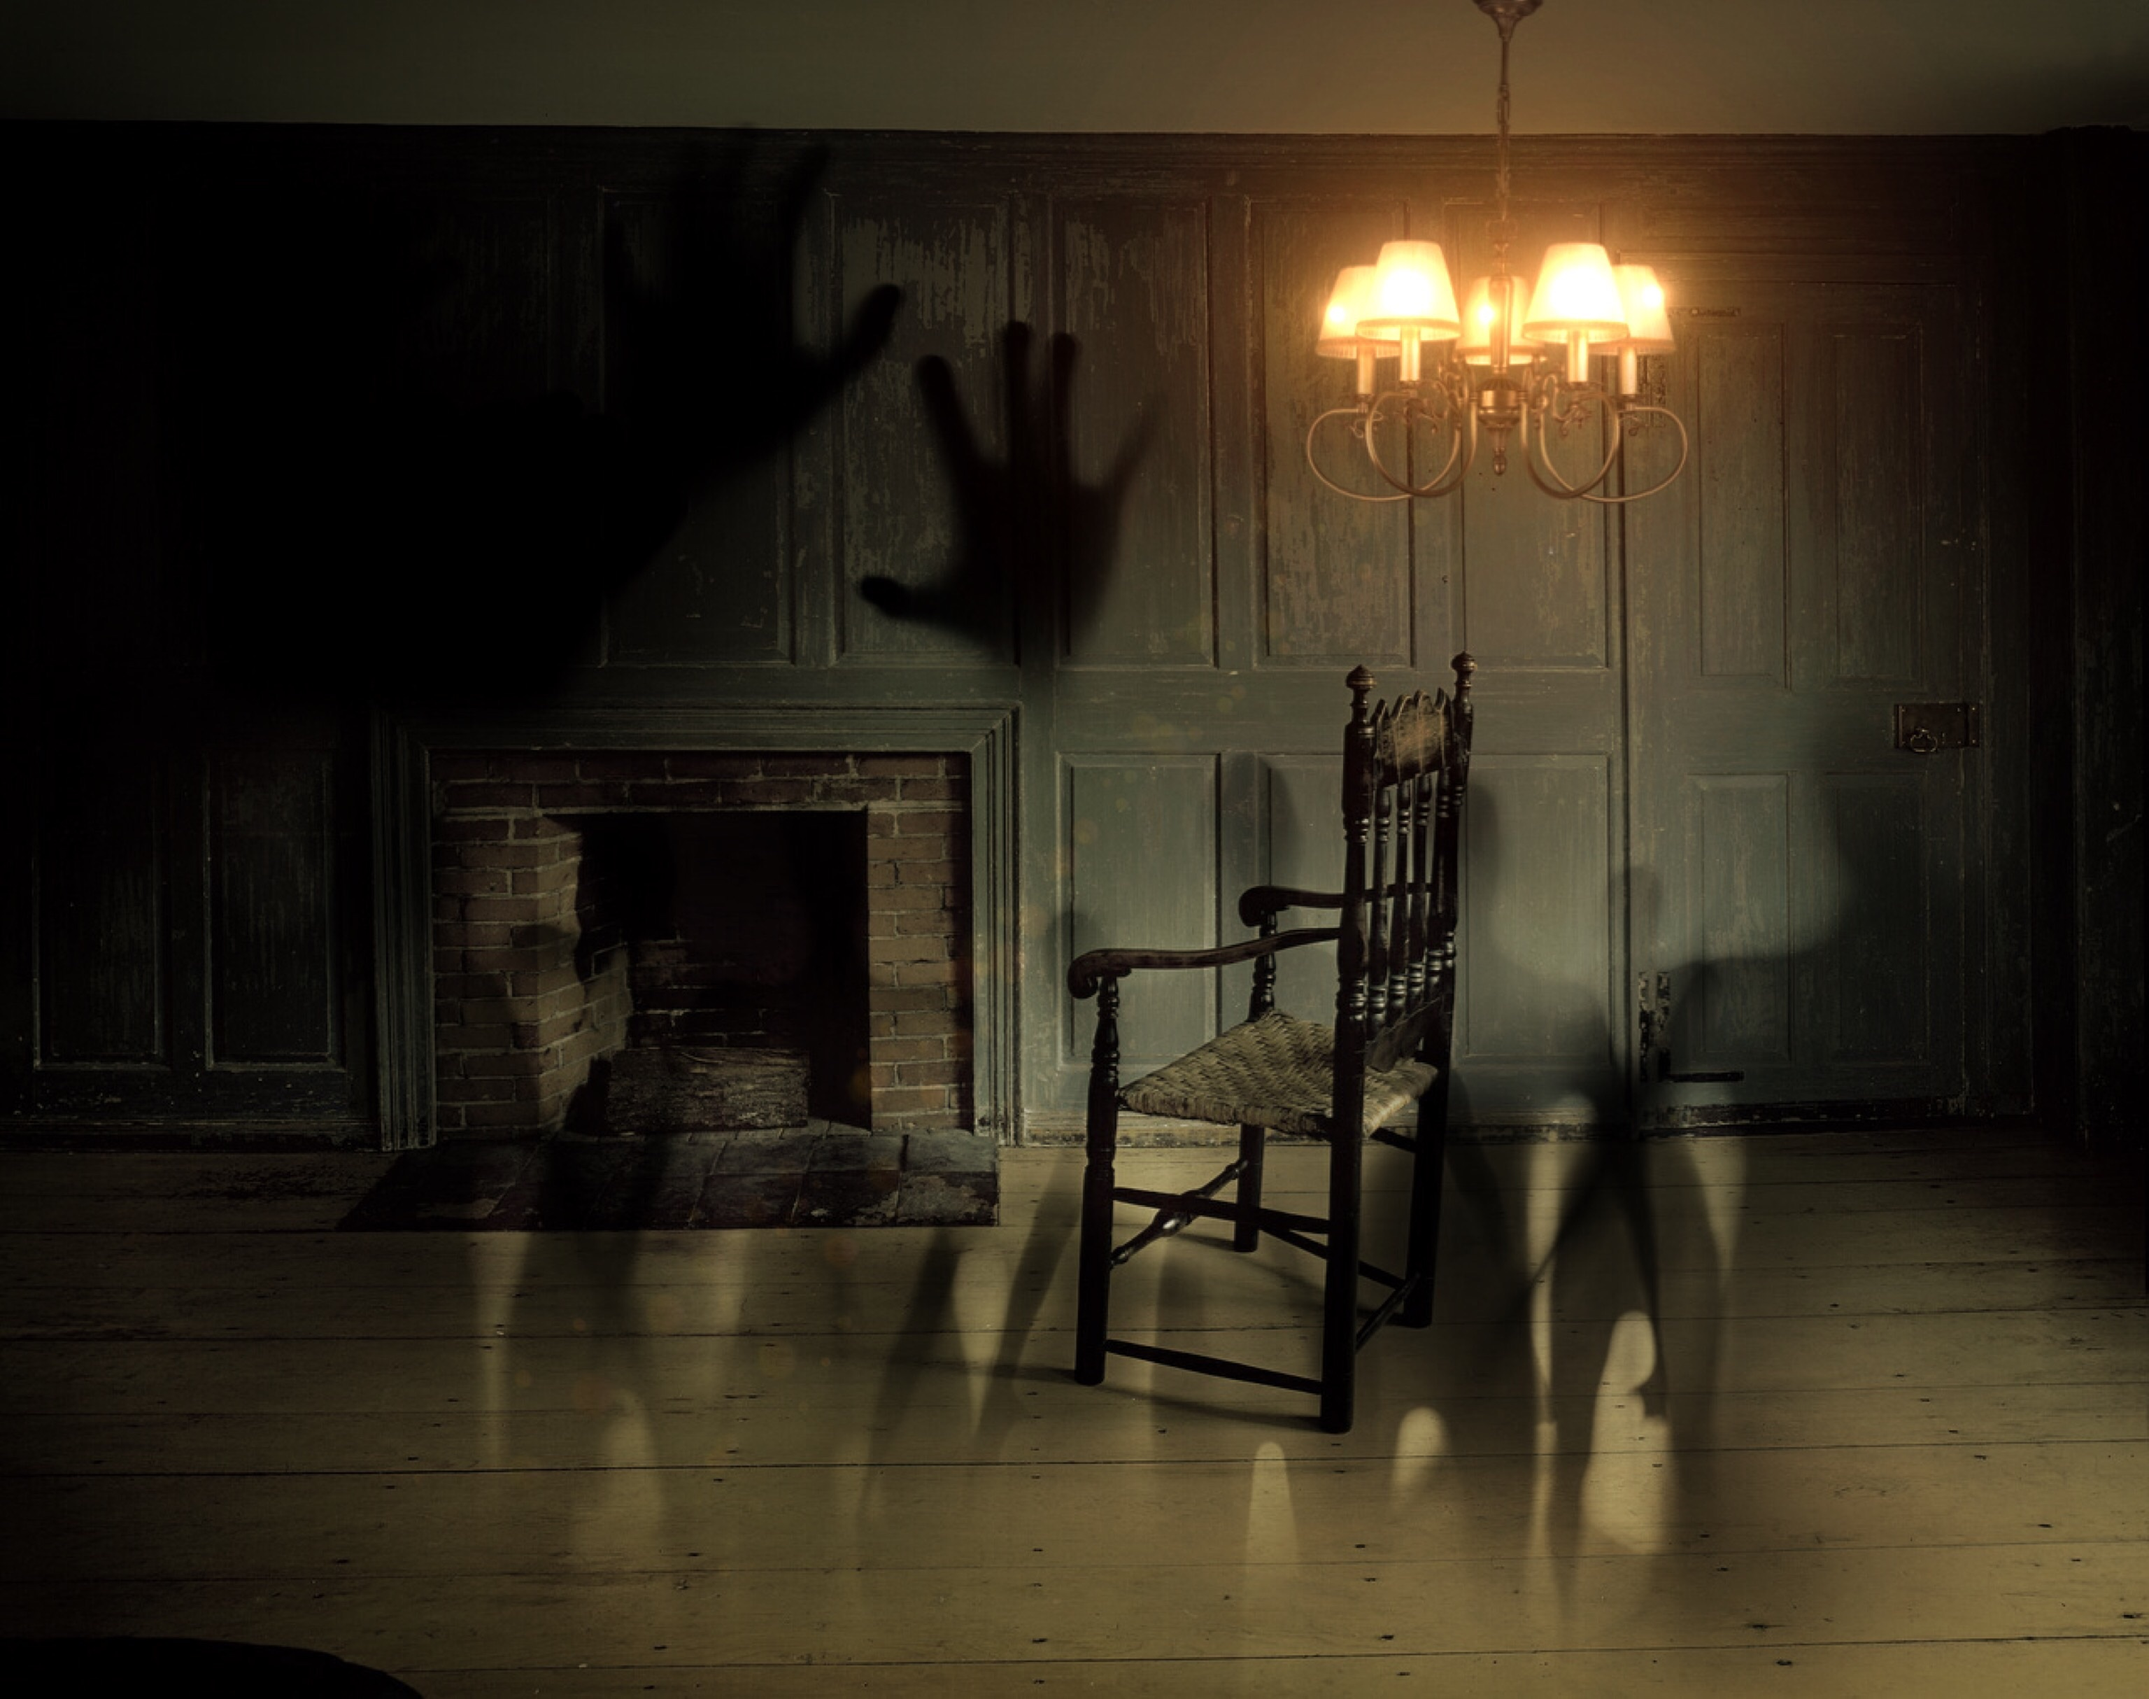
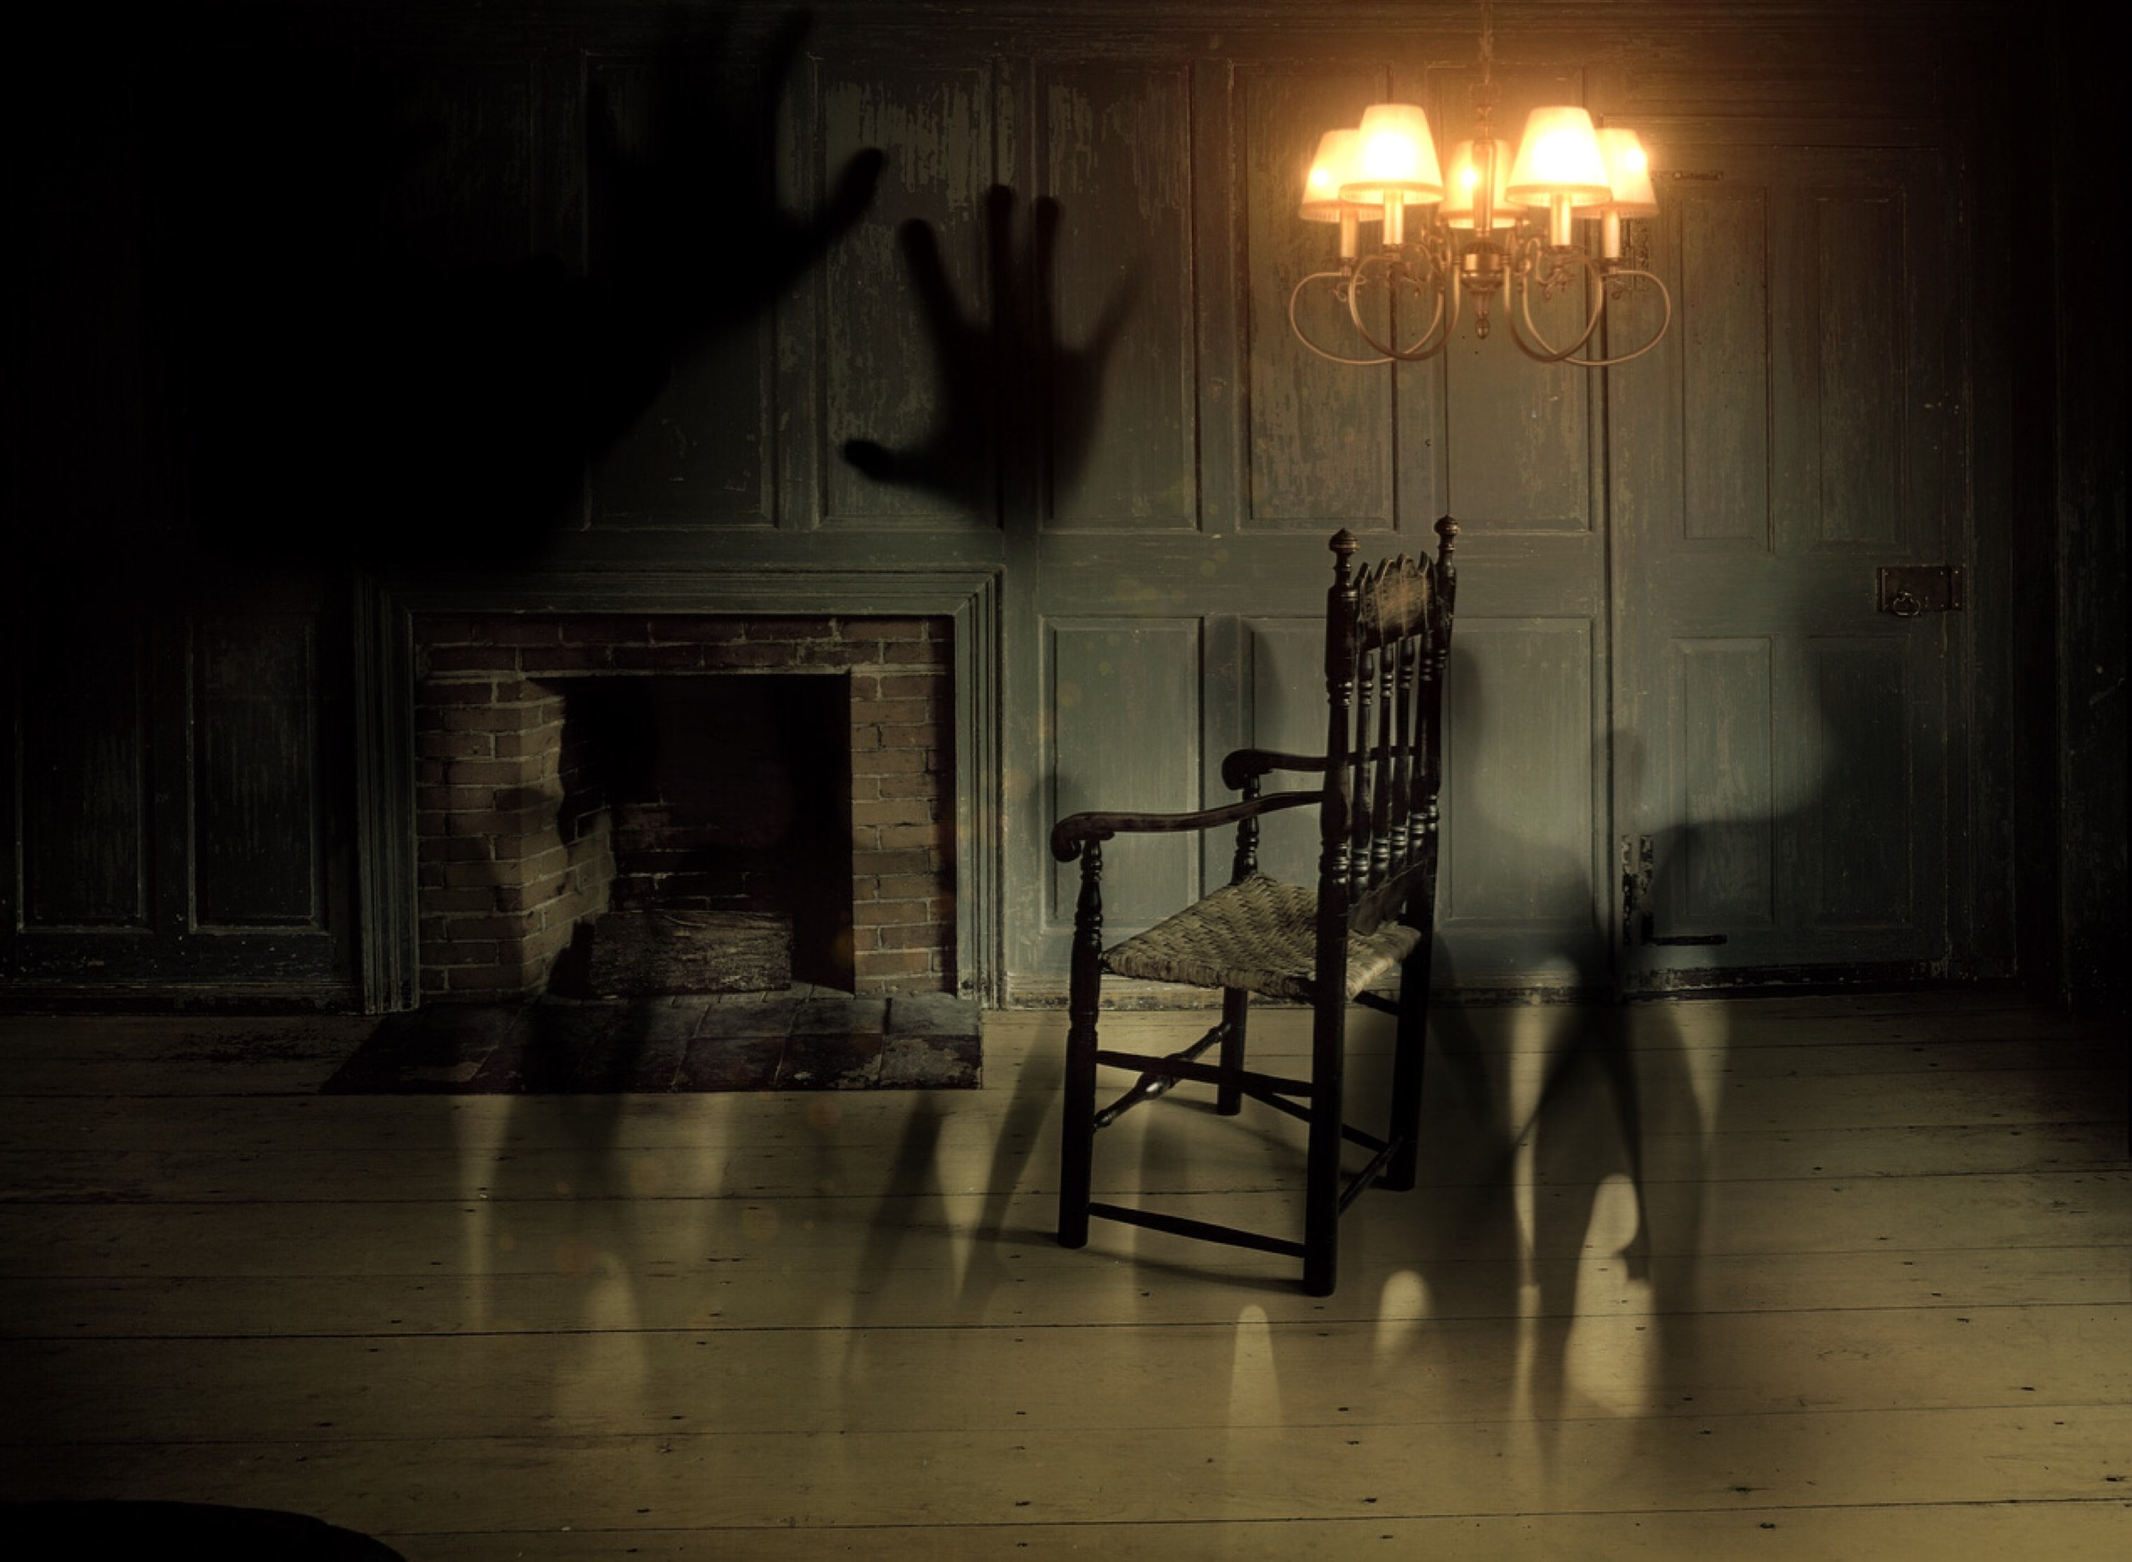
Organizando e mudando caminhos de arquivos

diff --git a/Scripts/richard/richard.js b/Scripts/richard/richard.js
@@ -1,0 +1,30 @@
+var texto = document.getElementById("frase");
+ var buttom = document.getElementById("botao");
+ 
+codes
+ function n1(){
+    var acao1 = prompt("Escolha por onde ir: \n1- Deixar a encomenda na porta\n2- Deixar a encomenda na biblioteca\n3- Deixar a encomenda na sala ")
+   
+    
+    if(acao1 == 1){
+     texto.innerHTML="<p>Muito obrigada, Richard! Bom trabalho. Da próxima vez, você poderia entrar pra tomar um café, que tal? <p/>" 
+     buttom.onclick = location.href("../HTML/game.html");
+      
+      
+      
+    }
+    else if (acao1 == 2){
+      texto.innerHTML="Parece que faz muito tempo que ninguém lê um livro por aqui, não é? Não tem uma superfície sem poeira para que você possa deixar esse pacote. Talvez ali na mesa, junto com as outras caixas? É impressão minha ou essa encomenda se mexeu? "
+     
+      
+    }
+
+    else if(acao1==3){
+      texto.innerHTML="Esse lugar estava realmente precisando de uma visita, por que você não senta e descansa um pouquinho? Esse sofá parece muito aconchega"
+    }
+   else{
+     texto.innerHTML= "Digite escolha válida"
+  
+   }
+
+  }

diff --git a/Scripts/jane/jane.js b/Scripts/jane/jane.js
@@ -1,0 +1,24 @@
+function n1Text(){
+  document.write(" Humn… Eu não estava esperando essa visita… Talvez você encontre alguma coisa por aqui. Mas terá que entrar para procurar.")
+}
+
+function n1Act(){
+  var act1 = prompt("Escolha por onde ir: \n1- Procurar o documento na biblioteca \n 2- Procurar o documento no quarto vermelho\n 3 - Procurar o documento no porão")
+
+  if(act1 == 1){
+    document.write("Se você veio aqui procurar algum papel velho, aqui tem bastante coisa interessante para você… Talvez você encontre o que precisa e até algo mais  Por onde você quer começar?  "); 
+   return n2Act();
+    
+  }
+  else if (act1 == 2){  
+    document.write("Toda casa tem seu quarto principal e aqui não é diferente. Temos uma grande cama confortável, uma penteadeira de madeira maciça, uma janela grande com vista pra o jardim… É uma pena que o tempo não tenha sido gentil com esse cômodo e todo o luxo tenha se transformado em mofo…")
+    
+  }
+  else if(act3==3){
+    document.write("Porão - ")
+  }
+ else{
+   alert("Digite escolha válida")
+ }
+
+}

diff --git a/CSS/richard/richard.css b/CSS/richard/richard.css
@@ -1,44 +1,21 @@
 body{
-  background-image: url(../Assets/photo2.jpg);
+  background-image: url(../../Assets/4fe616e0-7fe4-49bf-928d-7db562710c63.jpg);
   background-repeat: no-repeat;
   background-size: 100%;
- 
 }
-.text{
+
+#text{
   width: 700px; 
   margin-left: auto;
   margin-right: auto;
   padding-top: 200px;
-  color:white;
+  font-size: 26px;
   text-shadow: black 0.1em 0.1em 0.2em;
-
+  color:white;
  
 }
-.text,  button{
+#text,  button{
   font-family: 'Roboto', sans-serif;
-}
-
-.container{
-
-  display: flex;
-}
-
-.personagem{
-  width: 500px;
-  color: white;
-}
-
-.objetivo{
-  visibility: hidden;
-  opacity: 0;
-  transition: visibility 0s, opacity 0.5 linear;
-  color: antiquewhite;
-  text-shadow: black 0.1em 0.1em 0.2em
-}
-
-.personagem:hover .objetivo{
-  visibility: visible;
-  opacity: 1;
 }
 
 button{
@@ -64,5 +41,5 @@ button{
   font-family: 'Roboto', sans-serif;
   text-decoration: none;
   vertical-align: middle;
+  
 }
-

diff --git a/CSS/michael/michael.css b/CSS/michael/michael.css
@@ -1,44 +1,21 @@
 body{
-  background-image: url(../Assets/photo2.jpg);
+  background-image: url(../Assets/ghosts-gespenter-spooky-horror.jpeg);
   background-repeat: no-repeat;
   background-size: 100%;
- 
 }
-.text{
+
+#text{
   width: 700px; 
   margin-left: auto;
   margin-right: auto;
   padding-top: 200px;
-  color:white;
+  font-size: 26px;
   text-shadow: black 0.1em 0.1em 0.2em;
-
+  color:white;
  
 }
-.text,  button{
+#text,  button{
   font-family: 'Roboto', sans-serif;
-}
-
-.container{
-
-  display: flex;
-}
-
-.personagem{
-  width: 500px;
-  color: white;
-}
-
-.objetivo{
-  visibility: hidden;
-  opacity: 0;
-  transition: visibility 0s, opacity 0.5 linear;
-  color: antiquewhite;
-  text-shadow: black 0.1em 0.1em 0.2em
-}
-
-.personagem:hover .objetivo{
-  visibility: visible;
-  opacity: 1;
 }
 
 button{
@@ -65,4 +42,3 @@ button{
   text-decoration: none;
   vertical-align: middle;
 }
-

diff --git a/HTML/richard/richard.html b/HTML/richard/richard.html
@@ -5,12 +5,18 @@
   <meta http-equiv="X-UA-Compatible" content="IE=edge">
   <meta name="viewport" content="width=device-width, initial-scale=1.0">
   <link rel="icon" href="../Assets/haunted-house.png" />
-  <link rel="stylesheet" href="../CSS/richard.css">
+  <link rel="stylesheet" href="../../CSS/richard/richard.css">
   <link href="https://fonts.googleapis.com/css2?family=Jolly+Lodger&family=Roboto&display=swap" rel="stylesheet">
   <title>Richard</title>
 </head>
 <body>
+  <div class="container">
+    <div id="text">
+      <p id="frase">Olá, Richard! Estava esperando isso há muito tempo. Você pode deixar aqui no tapete, mas… Olhe, a porta está aberta! Você não quer entrar?</p>
+    </div>
+    <button id="botao" onclick="n1()">Responder</button>
+  </div>
   
 </body>
-<script src="../Scripts/richard.js"></script>
+<script src="../Scripts/richard/richard.js"></script>
 </html>

diff --git a/CSS/jane/jane.css b/CSS/jane/jane.css
@@ -1,44 +1,20 @@
 body{
-  background-image: url(../Assets/photo2.jpg);
+  background-image: url(../Assets/photo.jpg);
   background-repeat: no-repeat;
   background-size: 100%;
- 
 }
-.text{
+#text{
   width: 700px; 
   margin-left: auto;
   margin-right: auto;
   padding-top: 200px;
-  color:white;
+  font-size: 26px;
   text-shadow: black 0.1em 0.1em 0.2em;
-
+  color:white;
  
 }
-.text,  button{
+#text,  button{
   font-family: 'Roboto', sans-serif;
-}
-
-.container{
-
-  display: flex;
-}
-
-.personagem{
-  width: 500px;
-  color: white;
-}
-
-.objetivo{
-  visibility: hidden;
-  opacity: 0;
-  transition: visibility 0s, opacity 0.5 linear;
-  color: antiquewhite;
-  text-shadow: black 0.1em 0.1em 0.2em
-}
-
-.personagem:hover .objetivo{
-  visibility: visible;
-  opacity: 1;
 }
 
 button{
@@ -65,4 +41,3 @@ button{
   text-decoration: none;
   vertical-align: middle;
 }
-

diff --git a/HTML/michael/michael.html b/HTML/michael/michael.html
@@ -5,12 +5,18 @@
   <meta http-equiv="X-UA-Compatible" content="IE=edge">
   <meta name="viewport" content="width=device-width, initial-scale=1.0">
   <link rel="icon" href="../Assets/haunted-house.png" />
-  <link rel="stylesheet" href="../CSS/michael.css">
+  <link rel="stylesheet" href="../CSS/michael/michael.css">
   <link href="https://fonts.googleapis.com/css2?family=Jolly+Lodger&family=Roboto&display=swap" rel="stylesheet">
   <title>Michael</title>
 </head>
 <body>
-  
+  <div class="container">
+    <div id="text">
+      <p>Seja bem-vindo, Michael! O que as pessoas têm postado por aí? Não acredite em tudo que eles falam… É sempre bom ver com seus próprios olhos!</p>
+      <button>Entrar</button>
+    </div>
+      </div>
+
 </body>
-<script src="../Scripts/michael.js"></script>
+<script src="../Scripts/michael/michael.js"></script>
 </html>

diff --git a/Scripts/michael/michael.js b/Scripts/michael/michael.js
@@ -1,0 +1,24 @@
+function n1Text(){
+  document.write("Seja bem-vindo, Michael! O que as pessoas têm postado por aí? Não acredite em tudo que eles falam… É sempre bom ver com seus próprios olhos!")
+}
+
+function n1Act(){
+  var act1 = prompt("Escolha por onde ir: \n1 - Explorar a Sala das Estátuas \n 2 - Explorar o Porão\n 3-  Explorar Quarto Vermelho")
+
+  if(act1 == 1){
+    document.write("Biblioteca  "); 
+   return n2Act();
+    
+  }
+  else if (act1 == 2){
+    document.write("Biblioteca ")
+    
+  }
+  else if(act3==3){
+    document.write("Porão - ")
+  }
+ else{
+   alert("Digite escolha válida")
+ }
+
+}

diff --git a/Scripts/inicio.js b/Scripts/inicio.js
@@ -3,15 +3,15 @@ function escolha(){
   var personagem =  prompt("Escolha o personagem: \n1- Richard \n2- Jane\n3- Michael");
   
   if(personagem == 1){
-    return location = ("../HTML/richard.html")
+    return location = ("../HTML/richard/richard.html")
   }
 
   else if (personagem == 2){
-    return location = ("../HTML/jane.html")
+    return location = ("../HTML/jane/jane.html")
   }
 
   else if (personagem == 3){
-    return location = ("../HTML/richard.html")
+    return location = ("../HTML/michael/michael.html")
   }
 
   else{

diff --git a/HTML/richard/richard2.html b/HTML/richard/richard2.html
@@ -1,0 +1,16 @@
+<!DOCTYPE html>
+<html lang="en">
+<head>
+  <meta charset="UTF-8">
+  <meta http-equiv="X-UA-Compatible" content="IE=edge">
+  <meta name="viewport" content="width=device-width, initial-scale=1.0">
+  <link rel="stylesheet" href="../../CSS/richard/richard.css">
+  <title>Document</title>
+</head>
+<body>
+  
+</body>
+<script src="../../Scripts/richard/richard.js"></script>
+<script src="../../Scripts/richard/richard2.js"></script>
+<script src="../../Scripts/richard/richard3.js"></script>
+</html>

diff --git a/HTML/richard/richard3.html b/HTML/richard/richard3.html
@@ -1,0 +1,14 @@
+<!DOCTYPE html>
+<html lang="en">
+<head>
+  <meta charset="UTF-8">
+  <meta http-equiv="X-UA-Compatible" content="IE=edge">
+  <meta name="viewport" content="width=device-width, initial-scale=1.0">
+  <link rel="stylesheet" href="../../CSS/richard/richard.css">
+  <title>Nível 3 - Richard</title>
+</head>
+<body>
+  
+</body>
+<script src="../../Scripts/richard/richard3.js"></script>
+</html>

diff --git a/HTML/jane/jane.html b/HTML/jane/jane.html
@@ -10,7 +10,10 @@
   <title>Jane</title>
 </head>
 <body>
-  <div class="texto"></div>
+  <div id="text">
+    <p>Humn… Eu não estava esperando essa visita… Talvez você encontre alguma coisa por aqui. Mas terá que entrar para procurar. </p>
+    <button>Entrar</button>
+  </div>
 </body>
 <script src="../Scripts/jane.js"></script>
 </html>
